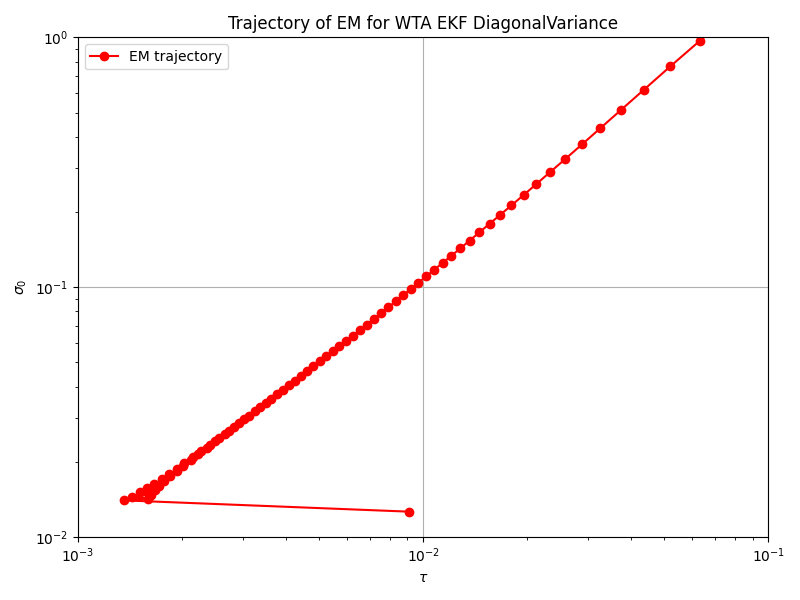
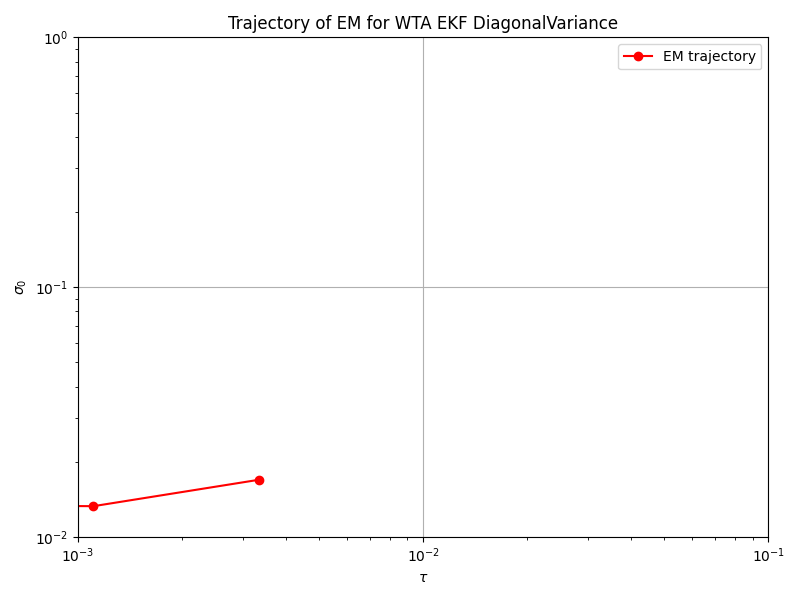
Correcting EM formulas

diff --git a/models/kalmanfilters.py b/models/kalmanfilters.py
@@ -152,26 +152,38 @@ class ExtendedKalmanFilters():
         if not self.updated:
             self.update(modelType=modelType)
 
-        v = jnp.diag(self.V)
-        mu = self.mu.copy()
+        v_filt = jnp.diag(self.V)
+        mu_filt = self.mu
 
-        mu_smooth = jnp.zeros((self.N, self.K), dtype=mu.dtype)
-        v_smooth = jnp.zeros((self.N, self.K), dtype=v.dtype)
+        dt = self.matches_info[1:, 2]
+        tau2 = self.tau ** 2
 
-        mu_smooth = mu_smooth.at[:, -1].set(mu)
-        v_smooth = v_smooth.at[:, -1].set(v)
+        mu_smooth = jnp.zeros((self.N, self.K), dtype=mu_filt.dtype)
+        v_smooth = jnp.zeros((self.N, self.K), dtype=v_filt.dtype)
+        mu_cross_smooth = jnp.zeros((self.N, self.K - 1), dtype=mu_filt.dtype)
 
-        for k in reversed(range(self.K - 1)):
-            dt = self.matches_info[k+1, 2]
-            eps = self.tau**2 * dt
+        mu_smooth = mu_smooth.at[:, -1].set(mu_filt)
+        v_smooth = v_smooth.at[:, -1].set(v_filt)
 
-            Dk = v / (v + eps)
+        def backward_step(carry, dt_k):
+            mu_next, v_next = carry
 
-            mu_smooth = mu_smooth.at[:, k].set(mu + Dk * (mu_smooth[:, k+1] - mu))
-            v_smooth = v_smooth.at[:, k].set(v + Dk**2 * (v_smooth[:, k+1] - v - eps))
+            eps = tau2 * dt_k
+            Dk = v_filt / (v_filt + eps)
 
-            mu = mu_smooth[:, k]
-            v = v_smooth[:, k]
+            mu_k = mu_filt + Dk * (mu_next - mu_filt)
+            v_k = v_filt + Dk**2 * (v_next - v_filt - eps)
+
+            mu_cross_k = mu_k * mu_next + Dk * v_next
+
+            return (mu_k, v_k), (mu_k, v_k, mu_cross_k)
+
+        (_, _), (mu_hist, v_hist, mu_cross_hist) = lax.scan(backward_step,(mu_filt, v_filt),dt[::-1])
+
+        mu_smooth = mu_smooth.at[:, :-1].set(mu_hist[::-1].T)
+        v_smooth = v_smooth.at[:, :-1].set(v_hist[::-1].T)
+        mu_cross_smooth = mu_cross_hist[::-1].T
 
         self.mu_smooth = mu_smooth
         self.v_smooth = v_smooth
+        self.mu_cross_smooth = mu_cross_smooth

diff --git a/models/EM_kalmanfilters.py b/models/EM_kalmanfilters.py
@@ -3,7 +3,14 @@ from tqdm import tqdm
 
 from models.kalmanfilters import ExtendedKalmanFilters
 
-def EM_KalmanFilter(filter_obj, modelType="DiagonalVariance", n_iter=100):
+def EM_KalmanFilter(
+    filter_obj,
+    modelType="DiagonalVariance",
+    n_iter=1000,
+    tol_sigma0=1e-4,
+    tol_tau=1e-5
+    ):
+
     N = filter_obj.N
     K = filter_obj.K
 
@@ -15,7 +22,10 @@ def EM_KalmanFilter(filter_obj, modelType="DiagonalVariance", n_iter=100):
 
     dt = filter_obj.matches_info[1:, 2].reshape(1, -1)
 
-    for it in tqdm(range(n_iter)):
+    for _ in tqdm(range(n_iter)):
+        sigma0_old = sigma0
+        tau_old = tau
+
         filter_obj.sigma0 = sigma0
         filter_obj.tau = tau
         filter_obj.updated = False
@@ -24,21 +34,26 @@ def EM_KalmanFilter(filter_obj, modelType="DiagonalVariance", n_iter=100):
 
         mu_s = filter_obj.mu_smooth
         v_s = filter_obj.v_smooth
+        mu_cross = filter_obj.mu_cross_smooth
 
-        sigma0 = jnp.mean(v_s[:, 0] + mu_s[:, 0]**2)
+        sigma0 = jnp.mean(v_s[:, 0] + mu_s[:, 0] ** 2)
 
         mu_prev = mu_s[:, :-1]
         mu_next = mu_s[:, 1:]
         v_prev = v_s[:, :-1]
         v_next = v_s[:, 1:]
 
-        numerator = v_prev + mu_prev**2 - 2 * mu_prev * mu_next + v_next + mu_next**2
+        numerator = v_prev + mu_prev ** 2 - 2.0 * mu_cross + v_next + mu_next ** 2
         tau_sq_matrix = jnp.where(dt != 0, numerator / dt, 0.0)
-
         tau = jnp.sqrt(jnp.sum(tau_sq_matrix) / (N * K))
 
         sigma0_traj.append(float(sigma0))
         tau_traj.append(float(tau))
 
+        if jnp.abs(sigma0 - sigma0_old) < tol_sigma0 and jnp.abs(tau - tau_old) < tol_tau:
+            print("Converged")
+            break
+
     return sigma0_traj, tau_traj
+
 

diff --git a/experiments/kalmanfilter.py b/experiments/kalmanfilter.py
@@ -11,7 +11,7 @@ wta_kalman = ExtendedKalmanFilters(match_times,
                                   sigma0 = 0.01,
                                   )
 a = time.time()
-loglikelihood = wta_kalman.compute_llh(modeltype="DiagonalVariance")
+loglikelihood = wta_kalman.compute_llh(modelType="DiagonalVariance")
 b = time.time()
 print("Computation time:", b - a, "seconds")
 print("loglikelihood of the WTA data under the Extended Kalman Filter model:", loglikelihood)

diff --git a/experiments/EM_rep_kalmanfilter_diagvar.py b/experiments/EM_rep_kalmanfilter_diagvar.py
@@ -9,7 +9,7 @@ match_times, match_player_indices, _, players_id_to_name_dict, _ = load_wta()
 
 tau_init = 0.01
 sigma0_init = 0.1
-n_iter = 800
+n_iter = 1000
 
 wta_kalman = ExtendedKalmanFilters(
     match_times,
